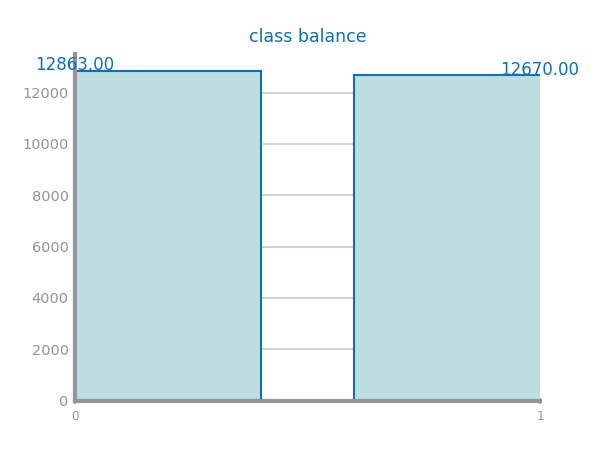
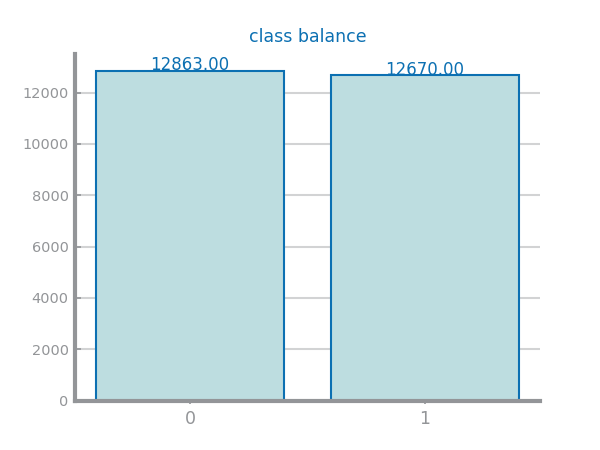
balancing

diff --git a/climate_domain/data_preparation/balancing.py b/climate_domain/data_preparation/balancing.py
@@ -51,7 +51,7 @@ for i in range(len(file_names)):
     print('class 0 = ', target_count.values[0])
     values = {'Original': [target_count[0], target_count[1]]}
     plt.clf()
-    bar_chart([0, 1], target_count.values, title='class balance')
+    bar_chart(['0', '1'], target_count.values, title='class balance')
     savefig(f'images/balancing/{file_name}_class_balance.png')
 
     class_one = train[train['class'] == 1]
